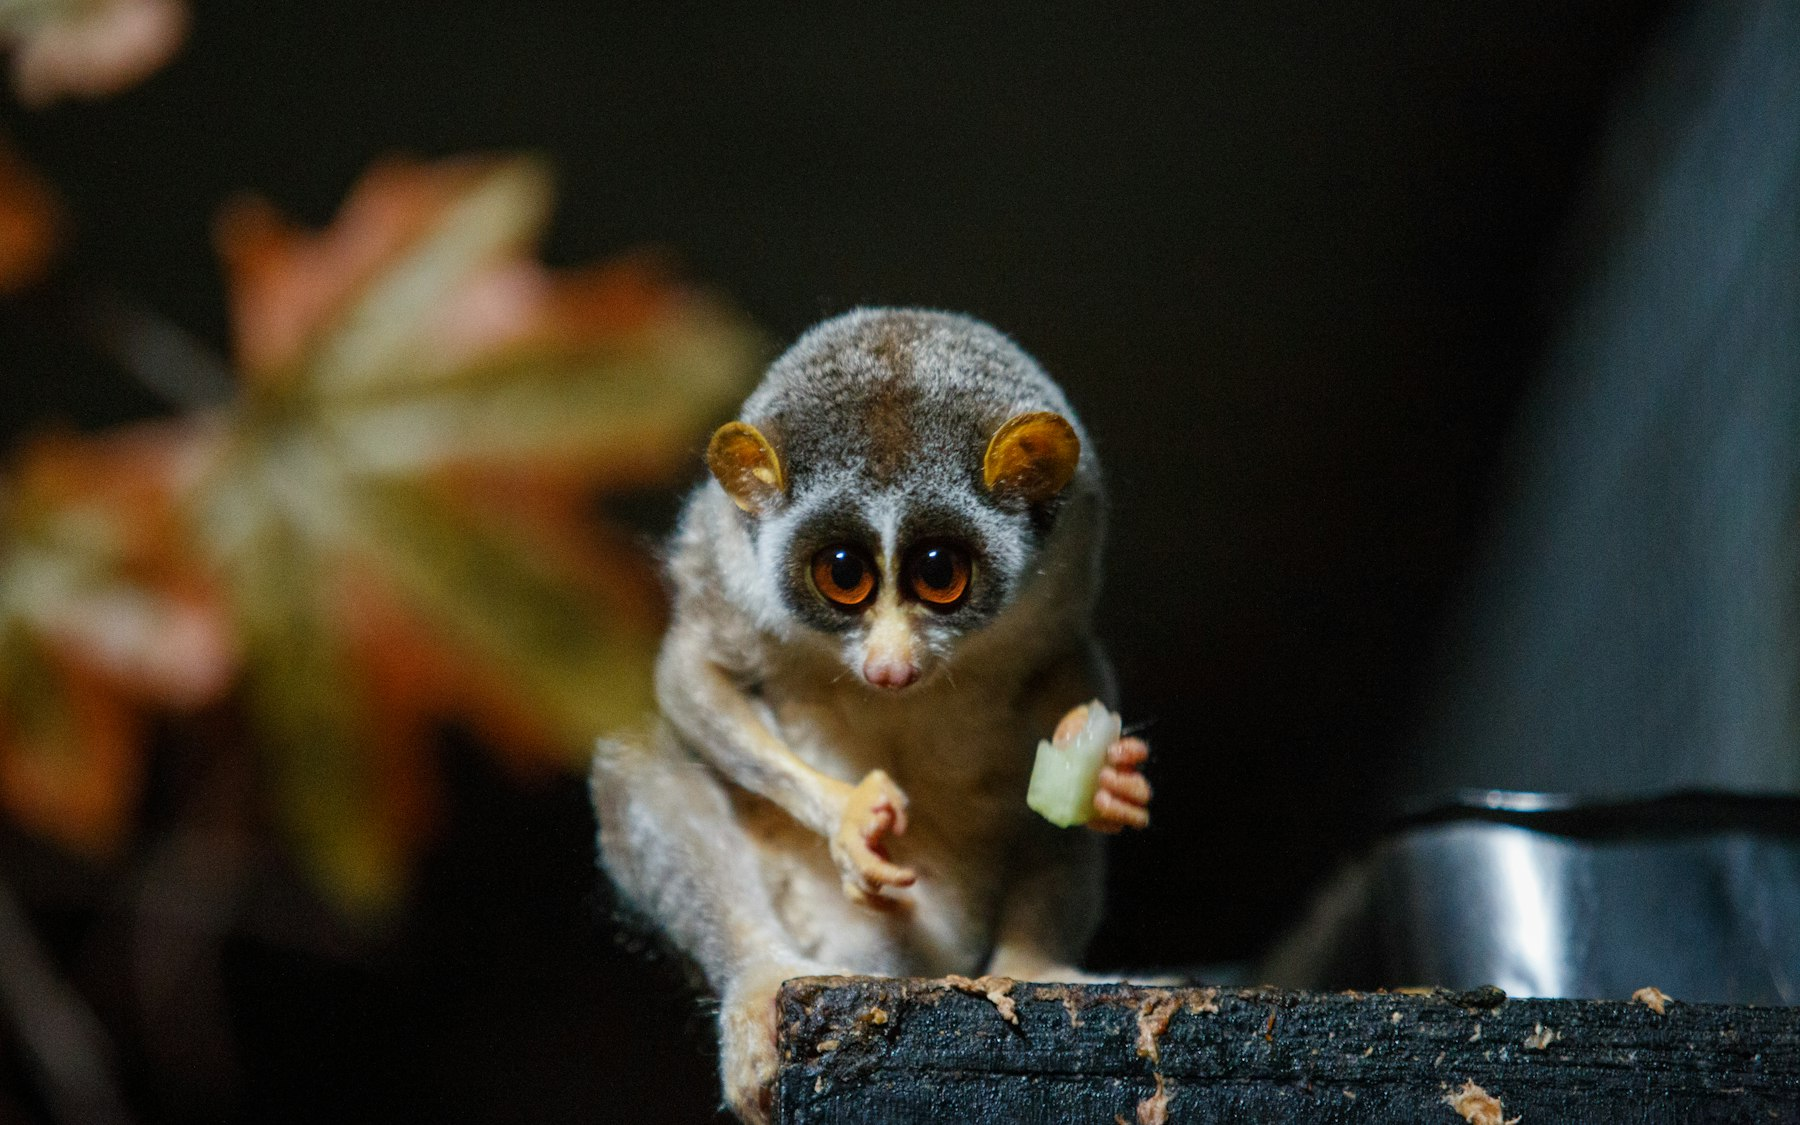
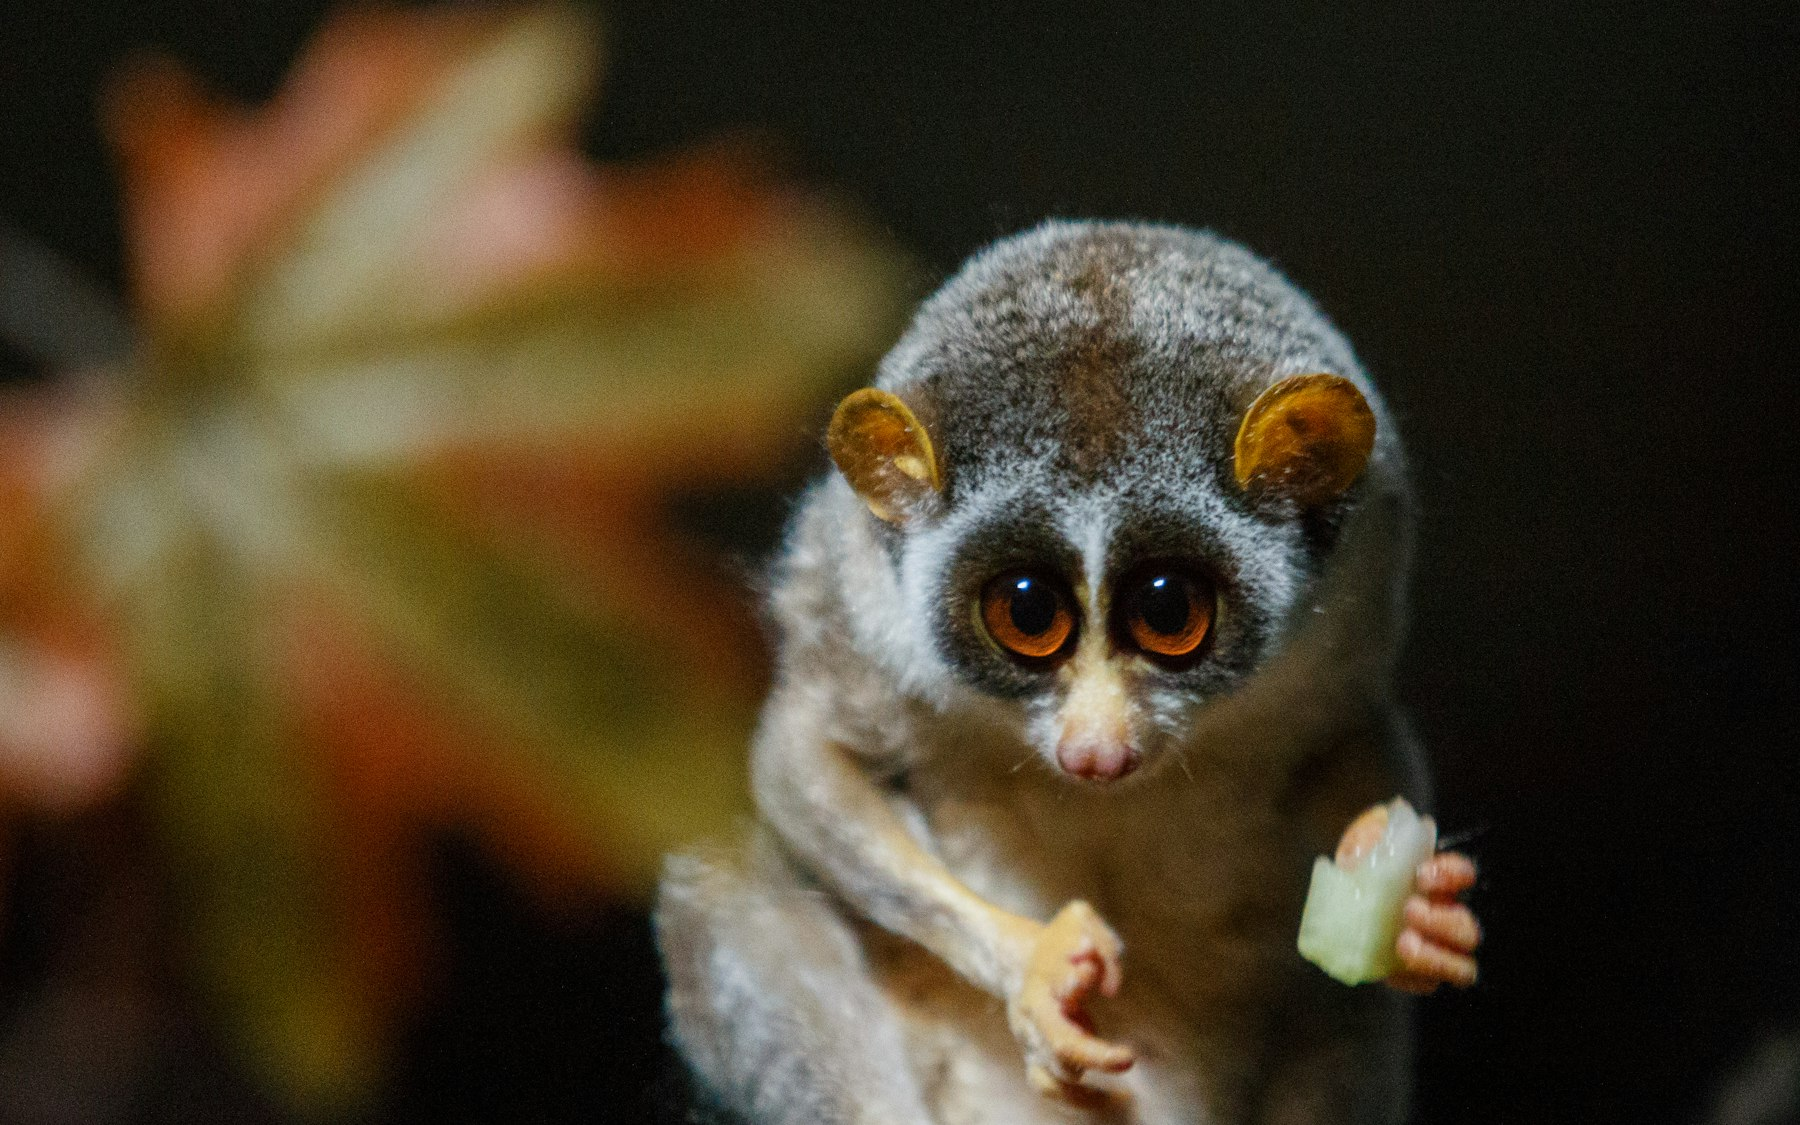
fix(guides): better photos for Bawa's house, the wetlands and the loris
Number 11 gets a tropical-modernist pavilion opening onto a garden instead
of the Seema Malakaya roof; the wetlands card gets a path in Diyasaru Park
(the photographer's own caption) instead of a kingfisher at an unknown
spot; the loris photo is re-cropped so the feeding bowl is out of frame.

diff --git a/credits.html b/credits.html
@@ -130,7 +130,7 @@ try{var chc=localStorage.getItem('ceylonhop_cookie_choice');if(chc==='granted'||
     <li><span class="where">Sigiriya guide</span><span>An infinity pool on the rocks above Kandalama lake — photo by <a href="https://unsplash.com/@neonboiiz?utm_source=ceylon_hop&utm_medium=referral">Anthony Lim</a> on <a href="https://unsplash.com/photos/a-person-taking-a-picture-of-a-body-of-water-OoaugsoQzSQ?utm_source=ceylon_hop&utm_medium=referral">Unsplash</a></span></li>
     <li><span class="where">Sigiriya guide</span><span>A white bungalow with wooden windows, a tiled roof and potted plants — photo by <a href="https://unsplash.com/@zoshuacolah?utm_source=ceylon_hop&utm_medium=referral">Zoshua Colah</a> on <a href="https://unsplash.com/photos/a-white-house-has-wooden-windows-and-a-red-roof-i1OZyG83-eo?utm_source=ceylon_hop&utm_medium=referral">Unsplash</a></span></li>
     <li><span class="where">Sigiriya guide</span><span>Wooden bunk beds in a sunny hostel dorm — photo by <a href="https://unsplash.com/@zoshuacolah?utm_source=ceylon_hop&utm_medium=referral">Zoshua Colah</a> on <a href="https://unsplash.com/photos/a-room-filled-with-lots-of-bunk-beds-next-to-a-window-TzMGehZmocI?utm_source=ceylon_hop&utm_medium=referral">Unsplash</a></span></li>
-    <li><span class="where">Sigiriya guide</span><span>A slender loris with large amber eyes holding a piece of fruit at night — photo by <a href="https://unsplash.com/@roi_dimor?utm_source=ceylon_hop&utm_medium=referral">Roi Dimor</a> on <a href="https://unsplash.com/photos/brown-and-black-animal-holding-food-2UWPLT1-t1s?utm_source=ceylon_hop&utm_medium=referral">Unsplash</a></span></li>
+    <li><span class="where">Sigiriya guide</span><span>A slender loris with large amber eyes holding a piece of fruit in the dark — photo by <a href="https://unsplash.com/@roi_dimor?utm_source=ceylon_hop&utm_medium=referral">Roi Dimor</a> on <a href="https://unsplash.com/photos/brown-and-black-animal-holding-food-2UWPLT1-t1s?utm_source=ceylon_hop&utm_medium=referral">Unsplash</a></span></li>
     <li><span class="where">Sigiriya guide</span><span>Sunset over forested plains and distant hills, seen from a bare rock summit — photo by <a href="https://unsplash.com/@egle_sidaraviciute?utm_source=ceylon_hop&utm_medium=referral">Egle Sidaraviciute</a> on <a href="https://unsplash.com/photos/sunset-over-the-valley-7AHS4Zpuilg?utm_source=ceylon_hop&utm_medium=referral">Unsplash</a></span></li>
     <li><span class="where">Kandy guide</span><span>The Temple of the Tooth at dusk, its gold-roofed octagon above the white moat wall — photo by <a href="https://unsplash.com/@chathuraanuradha?utm_source=ceylon_hop&utm_medium=referral">Chathura Anuradha Subasinghe</a> on <a href="https://unsplash.com/photos/a-white-building-with-a-gold-roof-with-temple-of-the-tooth-in-the-background-40uQmE9Zq8g?utm_source=ceylon_hop&utm_medium=referral">Unsplash</a></span></li>
     <li><span class="where">Kandy guide</span><span>Pilgrims in white crossing the square in front of the Temple of the Tooth — photo by <a href="https://unsplash.com/@chathuraanuradha?utm_source=ceylon_hop&utm_medium=referral">Chathura Anuradha Subasinghe</a> on <a href="https://unsplash.com/photos/a-group-of-people-walking-around-temple-of-the-tooth-Xj28T1jQSlc?utm_source=ceylon_hop&utm_medium=referral">Unsplash</a></span></li>
@@ -161,13 +161,13 @@ try{var chc=localStorage.getItem('ceylonhop_cookie_choice');if(chc==='granted'||
     <li><span class="where">Colombo guide</span><span>The curved towers of ITC Ratnadipa lit up at night — photo by <a href="https://unsplash.com/@zoshuacolah?utm_source=ceylon_hop&utm_medium=referral">Zoshua Colah</a> on <a href="https://unsplash.com/photos/illuminated-skyscrapers-at-night-create-a-stunning-scene-XXO6dCVq6nA?utm_source=ceylon_hop&utm_medium=referral">Unsplash</a></span></li>
     <li><span class="where">Colombo guide</span><span>Colombo’s rooftops and towers running down to the sea, seen from a hotel roof — photo by <a href="https://unsplash.com/@zoshuacolah?utm_source=ceylon_hop&utm_medium=referral">Zoshua Colah</a> on <a href="https://unsplash.com/photos/a-view-of-a-city-with-tall-buildings-and-a-body-of-water-ARaCgQopbcw?utm_source=ceylon_hop&utm_medium=referral">Unsplash</a></span></li>
     <li><span class="where">Colombo guide</span><span>Tuk-tuks and people on a Pettah street, the Lotus Tower behind — photo by <a href="https://unsplash.com/@dasithkavin?utm_source=ceylon_hop&utm_medium=referral">dasith kavin</a> on <a href="https://unsplash.com/photos/a-group-of-people-walking-on-a-street-with-cars-and-buildings-S7c0CaxO2TI?utm_source=ceylon_hop&utm_medium=referral">Unsplash</a></span></li>
-    <li><span class="where">Colombo guide</span><span>Seema Malakaya, Geoffrey Bawa’s pavilion on Beira Lake, ringed by gold Buddhas — photo by <a href="https://unsplash.com/@sandiproy_kolkata?utm_source=ceylon_hop&utm_medium=referral">Sandip Roy</a> on <a href="https://unsplash.com/photos/buildings-during-day-JsnZ1mAWqX8?utm_source=ceylon_hop&utm_medium=referral">Unsplash</a></span></li>
+    <li><span class="where">Colombo guide</span><span>An open concrete pavilion with a large clay pot, looking out to a tropical garden and stone steps — photo by <a href="https://unsplash.com/@donkaveen?utm_source=ceylon_hop&utm_medium=referral">Don Kaveen</a> on <a href="https://unsplash.com/photos/a-large-black-pot-sitting-on-top-of-a-cement-floor-oG46G3C6zGU?utm_source=ceylon_hop&utm_medium=referral">Unsplash</a></span></li>
     <li><span class="where">Colombo guide</span><span>A man walks past faded painted murals on a street wall in Sri Lanka — photo by <a href="https://unsplash.com/@ahkheong?utm_source=ceylon_hop&utm_medium=referral">Gerald Tan</a> on <a href="https://unsplash.com/photos/a-man-walks-past-a-graffiti-covered-wall-and-railing-zroe9p2bOeM?utm_source=ceylon_hop&utm_medium=referral">Unsplash</a></span></li>
     <li><span class="where">Colombo guide</span><span>Golden seated Buddha among palms and flowerbeds in Viharamahadevi Park, Colombo — photo by <a href="https://unsplash.com/@mattdany?utm_source=ceylon_hop&utm_medium=referral">Matt Dany</a> on <a href="https://unsplash.com/photos/a-large-golden-buddha-statue-sitting-in-a-park-PjLQXpJLxNc?utm_source=ceylon_hop&utm_medium=referral">Unsplash</a></span></li>
     <li><span class="where">Colombo guide</span><span>Port City Colombo waterfront promenade looking toward the city skyline at sunset — photo by <a href="https://unsplash.com/@sunethsilva?utm_source=ceylon_hop&utm_medium=referral">Suneth Nawoda De Silva</a> on <a href="https://unsplash.com/photos/a-boat-traveling-down-a-river-next-to-tall-buildings-rhY5M9Yu0FY?utm_source=ceylon_hop&utm_medium=referral">Unsplash</a></span></li>
     <li><span class="where">Colombo guide</span><span>Clay-covered hands shaping a bowl on a spinning pottery wheel — photo by <a href="https://unsplash.com/@lauratommphoto?utm_source=ceylon_hop&utm_medium=referral">Laura Tommasina</a> on <a href="https://unsplash.com/photos/hands-shaping-clay-on-a-pottery-wheel-5fO9grtkVYo?utm_source=ceylon_hop&utm_medium=referral">Unsplash</a></span></li>
     <li><span class="where">Colombo guide</span><span>Afternoon tea on a tiered stand with sandwiches, scones and cakes beside a cup of tea — photo by <a href="https://unsplash.com/@handley4eu?utm_source=ceylon_hop&utm_medium=referral">Jon Handley</a> on <a href="https://unsplash.com/photos/a-table-with-food-and-drinks-on-it-jS2fWDfX5sk?utm_source=ceylon_hop&utm_medium=referral">Unsplash</a></span></li>
-    <li><span class="where">Colombo guide</span><span>A kingfisher perched on a stick at a grassy lake edge — photo by <a href="https://unsplash.com/@ecolens?utm_source=ceylon_hop&utm_medium=referral">EcoLens Shirantha</a> on <a href="https://unsplash.com/photos/a-blue-bird-sits-on-a-branch-by-the-water-D9hHVhKi5gc?utm_source=ceylon_hop&utm_medium=referral">Unsplash</a></span></li>
+    <li><span class="where">Colombo guide</span><span>A curving footpath between tall screw pines and a clipped hedge in Diyasaru Park — photo by <a href="https://unsplash.com/@thevindu_19?utm_source=ceylon_hop&utm_medium=referral">Thevindu Nagasinghe</a> on <a href="https://unsplash.com/photos/a-path-in-the-middle-of-a-lush-green-field-zzRvDfDmano?utm_source=ceylon_hop&utm_medium=referral">Unsplash</a></span></li>
     <li><span class="where">Arugam Bay guide</span><span>Fishing boats pulled up on the beach at Arugam Bay, seen from above — photo by <a href="https://unsplash.com/@etienneblg?utm_source=ceylon_hop&utm_medium=referral">Etienne Boulanger</a> on <a href="https://unsplash.com/photos/aerial-view-of-people-on-shoreline-J7LiHL7jAgU?utm_source=ceylon_hop&utm_medium=referral">Unsplash</a></span></li>
     <li><span class="where">Arugam Bay guide</span><span>A longboarder riding a wave in Sri Lanka — photo by <a href="https://unsplash.com/@croydebay?utm_source=ceylon_hop&utm_medium=referral">Croyde Bay</a> on <a href="https://unsplash.com/photos/man-in-black-shorts-surfing-on-sea-waves-during-daytime-gqitVFrtkkY?utm_source=ceylon_hop&utm_medium=referral">Unsplash</a></span></li>
     <li><span class="where">Arugam Bay guide</span><span>A wave peeling along with surfers in the line-up, seen from above — photo by <a href="https://unsplash.com/@oleks_film?utm_source=ceylon_hop&utm_medium=referral">oleks film</a> on <a href="https://unsplash.com/photos/people-in-body-of-water-with-waves-_jxFjHoOyuU?utm_source=ceylon_hop&utm_medium=referral">Unsplash</a></span></li>

diff --git a/guides/colombo/index.html b/guides/colombo/index.html
@@ -345,7 +345,7 @@ window.addEventListener('unhandledrejection',function(e){var x=e.reason||{};r(x.
         </div>
       </article>
       <article class="poi reveal" id="number-11">
-        <img src="../../img/guides/colombo/bawa-900.jpg" srcset="../../img/guides/colombo/bawa-900.jpg 900w, ../../img/guides/colombo/bawa-1800.jpg 1800w" sizes="(max-width:760px) 100vw, 50vw" width="1800" height="1125" alt="Seema Malakaya, Geoffrey Bawa’s pavilion on Beira Lake, ringed by gold Buddhas" style="object-position:45% 55%" loading="lazy" decoding="async">
+        <img src="../../img/guides/colombo/bawa-900.jpg" srcset="../../img/guides/colombo/bawa-900.jpg 900w, ../../img/guides/colombo/bawa-1800.jpg 1800w" sizes="(max-width:760px) 100vw, 50vw" width="1800" height="1125" alt="An open concrete pavilion with a large clay pot, looking out to a tropical garden and stone steps" style="object-position:50% 35%" loading="lazy" decoding="async">
         <span class="n">3</span>
         <div class="bd">
           <h3>Number 11, Geoffrey Bawa’s house</h3>
@@ -399,7 +399,7 @@ window.addEventListener('unhandledrejection',function(e){var x=e.reason||{};r(x.
         </div>
       </article>
       <article class="poi reveal" id="wetlands">
-        <img src="../../img/guides/colombo/wetland-900.jpg" srcset="../../img/guides/colombo/wetland-900.jpg 900w, ../../img/guides/colombo/wetland-1800.jpg 1800w" sizes="(max-width:760px) 100vw, 50vw" width="1800" height="1125" alt="A kingfisher perched on a stick at a grassy lake edge" style="object-position:50% 55%" loading="lazy" decoding="async">
+        <img src="../../img/guides/colombo/wetland-900.jpg" srcset="../../img/guides/colombo/wetland-900.jpg 900w, ../../img/guides/colombo/wetland-1800.jpg 1800w" sizes="(max-width:760px) 100vw, 50vw" width="1800" height="1125" alt="A curving footpath between tall screw pines and a clipped hedge in Diyasaru Park" style="object-position:50% 58%" loading="lazy" decoding="async">
         <span class="n">9</span>
         <div class="bd">
           <h3>Green Colombo: wetlands &amp; parks</h3>
@@ -515,7 +515,7 @@ window.addEventListener('unhandledrejection',function(e){var x=e.reason||{};r(x.
     <div class="reveal"><div class="eyebrow">Real people, real answers</div><h2>Not sure about something?</h2><p>Lotus Tower slots, whether the Kandy train is running yet, where to sleep before an early flight — message us and we’ll check. That’s what we’re here for.</p></div>
     <a class="wa reveal" href="https://wa.me/94779669662?text=Hi%20Ceylon%20Hop%20%E2%80%94%20a%20question%20about%20Colombo%3A%20"><i></i>Message us on WhatsApp</a>
   </div></section>
-  <div class="credits"><div class="wrap"><span>Photos:</span><span>Sajeevan Balachandran</span><span>Thilina Alagiyawanna</span><span>Zoshua Colah</span><span>Bobbie M</span><span>Manorie Kodithuwakku</span><span>Emma Miller</span><span>Oshadha Viduranga</span><span>Christoph Theisinger</span><span>dasith kavin</span><span>Sandip Roy</span><span>Gerald Tan</span><span>Matt Dany</span><span>Suneth Nawoda De Silva</span><span>Laura Tommasina</span><span>Jon Handley</span><span>EcoLens Shirantha</span><span>— on Unsplash · <a href="../../credits.html">all credits</a></span></div></div>
+  <div class="credits"><div class="wrap"><span>Photos:</span><span>Sajeevan Balachandran</span><span>Thilina Alagiyawanna</span><span>Zoshua Colah</span><span>Bobbie M</span><span>Manorie Kodithuwakku</span><span>Emma Miller</span><span>Oshadha Viduranga</span><span>Christoph Theisinger</span><span>dasith kavin</span><span>Don Kaveen</span><span>Gerald Tan</span><span>Matt Dany</span><span>Suneth Nawoda De Silva</span><span>Laura Tommasina</span><span>Jon Handley</span><span>Thevindu Nagasinghe</span><span>— on Unsplash · <a href="../../credits.html">all credits</a></span></div></div>
 <script src="../../route-list-fares.js?v=62f1985096"></script>
 <script src="../../guide-page.js?v=44015c5fcb"></script>
 </main>

diff --git a/guides/sigiriya/index.html b/guides/sigiriya/index.html
@@ -363,7 +363,7 @@ window.addEventListener('unhandledrejection',function(e){var x=e.reason||{};r(x.
         </div>
       </article>
       <article class="poi reveal" id="loris">
-        <img src="../../img/guides/sigiriya/loris-900.jpg" srcset="../../img/guides/sigiriya/loris-900.jpg 900w, ../../img/guides/sigiriya/loris-1800.jpg 1800w" sizes="(max-width:760px) 100vw, 50vw" width="1800" height="1125" alt="A slender loris with large amber eyes holding a piece of fruit at night" style="object-position:48% 45%" loading="lazy" decoding="async">
+        <img src="../../img/guides/sigiriya/loris-900.jpg" srcset="../../img/guides/sigiriya/loris-900.jpg 900w, ../../img/guides/sigiriya/loris-1800.jpg 1800w" sizes="(max-width:760px) 100vw, 50vw" width="1800" height="1125" alt="A slender loris with large amber eyes holding a piece of fruit in the dark" style="object-position:55% 45%" loading="lazy" decoding="async">
         <span class="n">5</span>
         <div class="bd">
           <h3>A loris night walk</h3>
